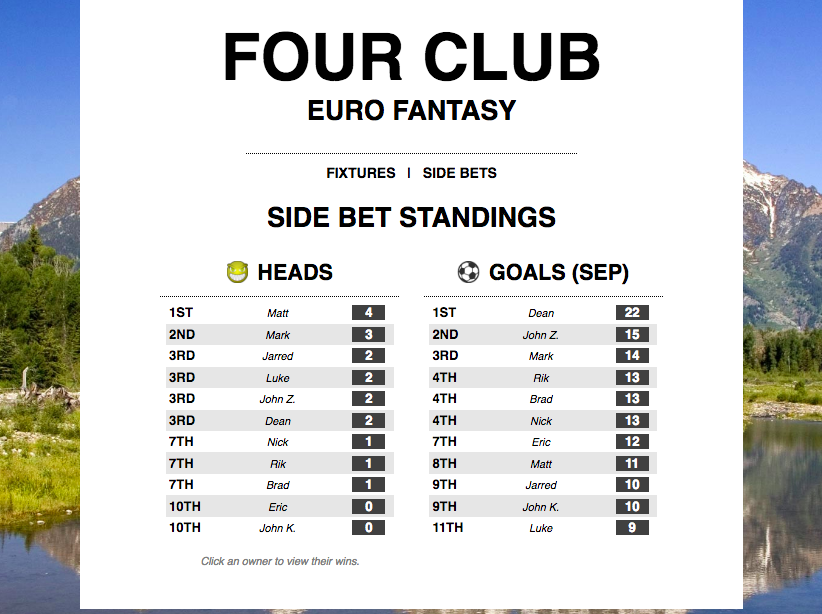
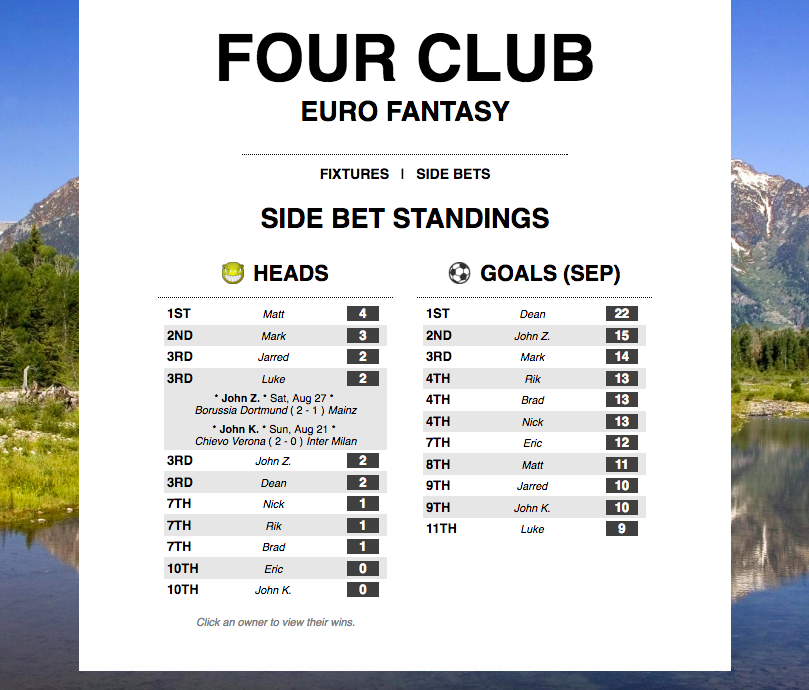
add descriptions under 'Further Screenshots'

diff --git a/README.md b/README.md
@@ -2,7 +2,7 @@
 *Four Club Euro Fantasy* is a fantasy gaming site that allows groups of friends to compete while expanding their knowledge of European soccer leagues. Check out the game [here](http://www.kor-league.herokuapp.com).
 
 # Player Page Screenshot
-![Screenshot](app/assets/images/screenshot_main.png)
+![Player page screenshot](app/assets/images/screenshot_main.png)
 
 # Game Structure
 ### Main Format
@@ -28,5 +28,14 @@ This project relies heavily on the [football-data.org](http://api.football-data.
 See the [full list](https://github.com/Andrelton/kor-league/blob/master/Gemfile).
 
 # Further Screenshots
-![Main page](app/assets/images/screenshot_1.png)
-![Fixtures page](app/assets/images/screenshot_2.png)
+### Main Page Features
+All data is updated automatically by a Rake task that updates the database based on information retrieved from the football-data.org API. For each owner, clubs are listed in order according to the time of their next match. Times listed are approprate for the user's location (sent by the server but updated client-side with Javascript), and matches against other players in the league are noted. Points, goals, and 'heads' (as described above) totals are noted here. Further information on these formats can be found on the player's page and the 'Side Bets' page.
+![Main page screenshot](app/assets/images/screenshot_1.png)
+
+### Fixtures Page Features
+Upcomming matches between clubs owned by players in the league are listed here. A match for the lineal title (as described above) is highlighted in black, while a *possible* such match is listed in bold.
+![Fixtures page screenshot](app/assets/images/screenshot_2.png)
+
+### Side Bets Page Features
+Here players are ranked by number of 'heads' (as described above) and goals in the current month. By clicking a player's name in the 'Heads' section, their name listing can by expanded to show when their 'heads' were won.
+![Side Bets page screenshot](app/assets/images/screenshot_3.png)
